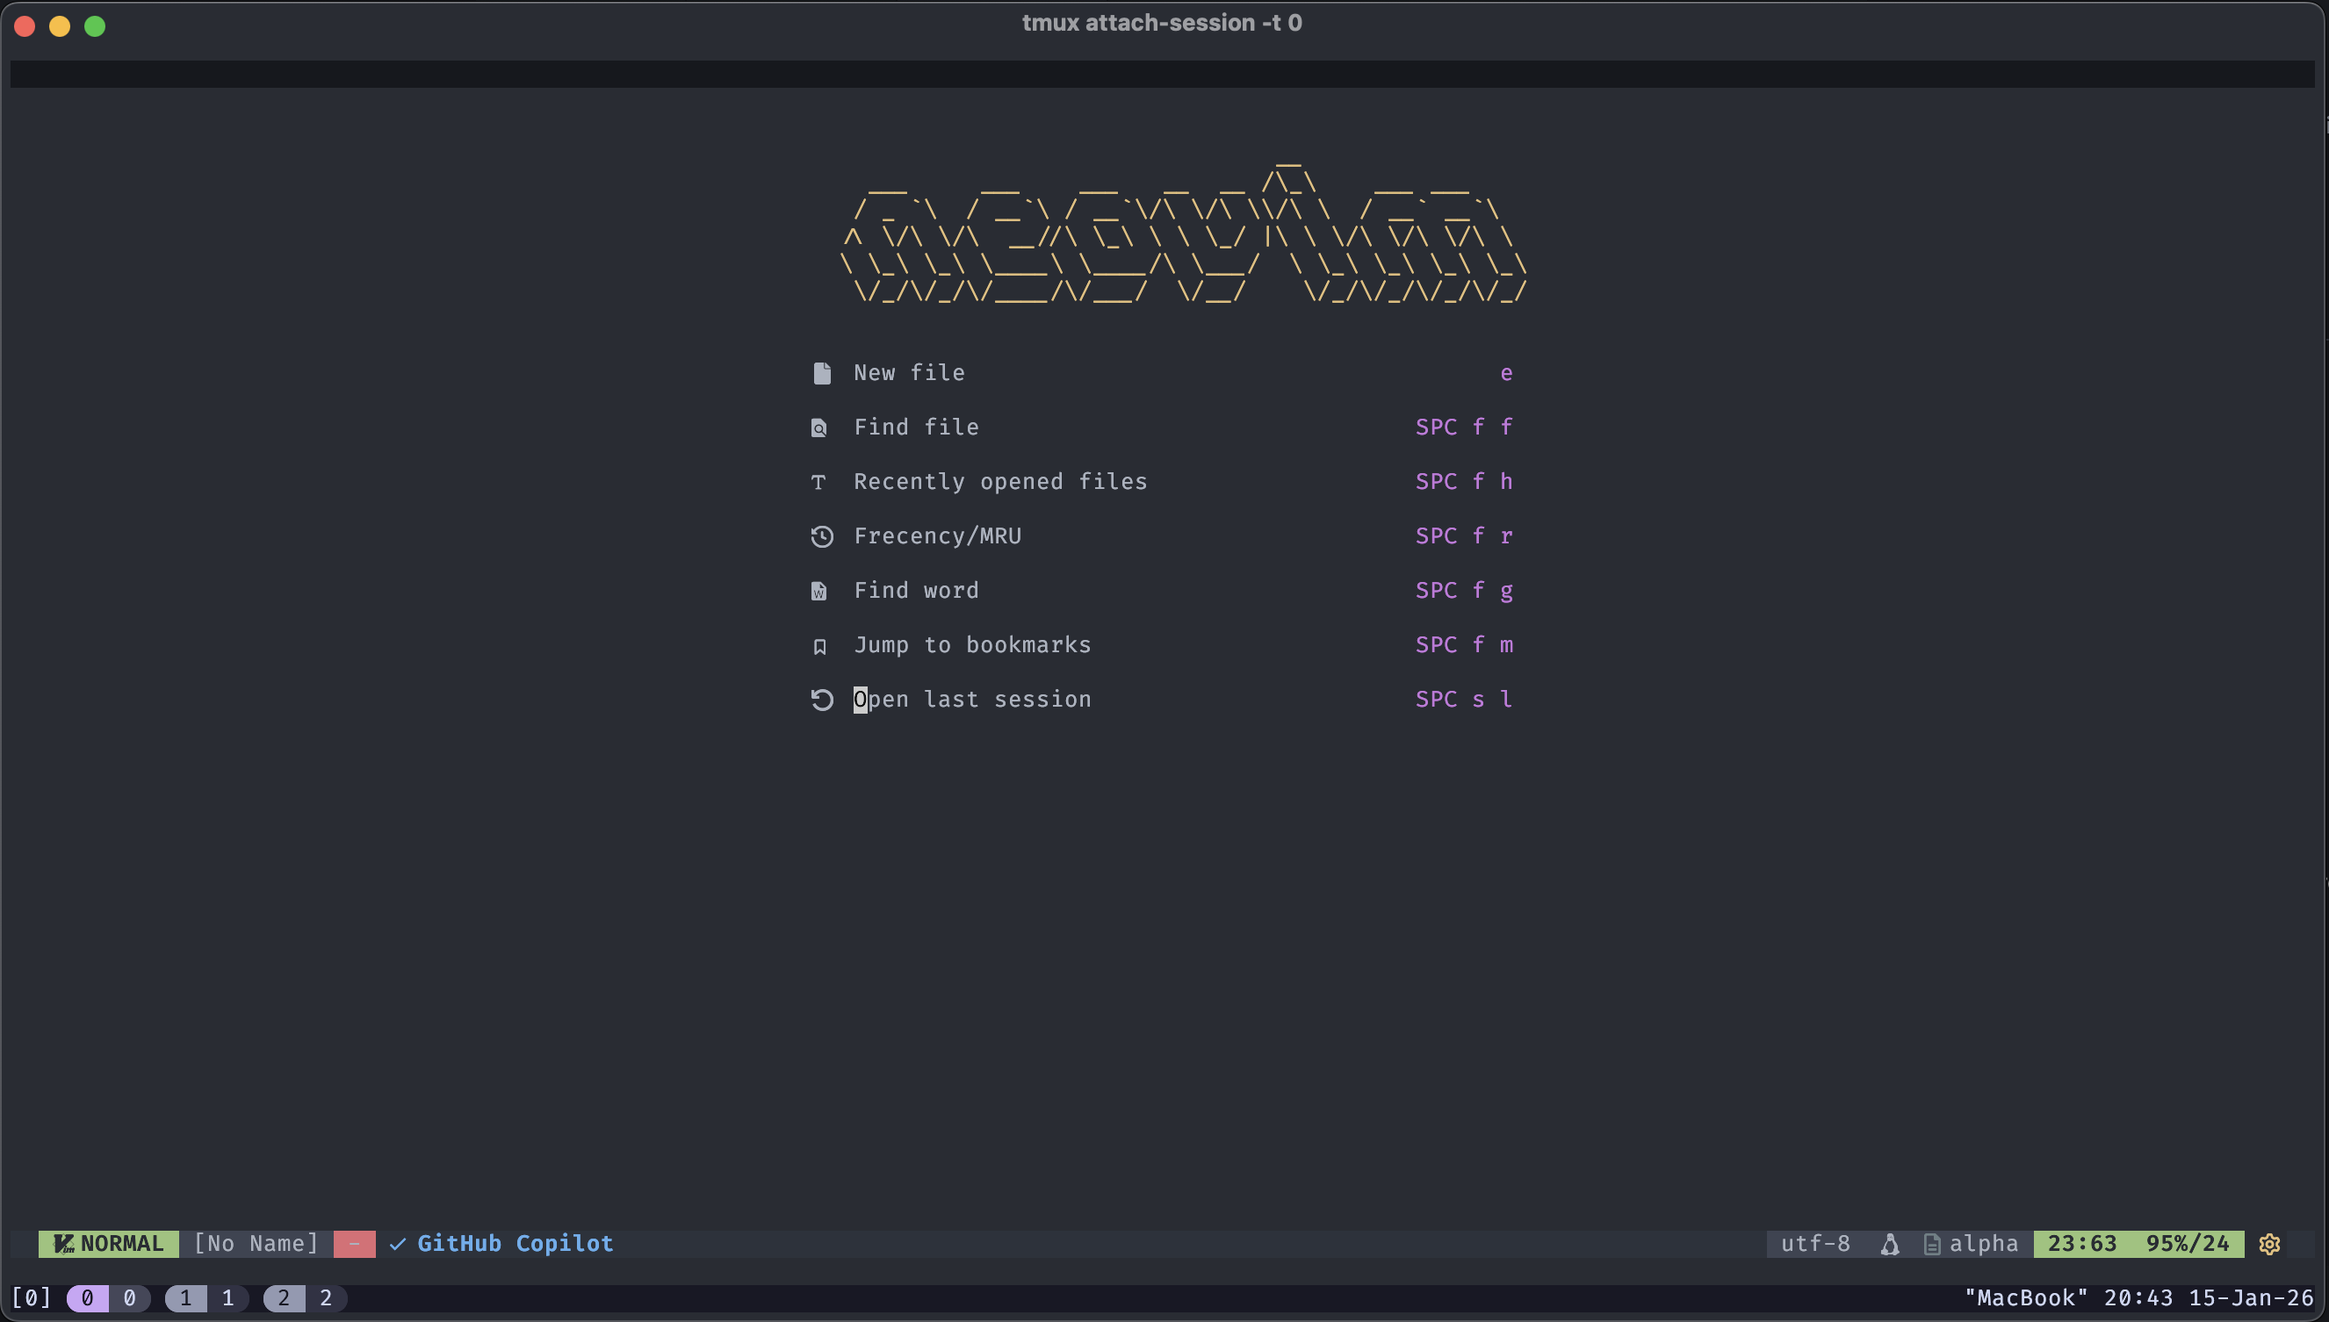
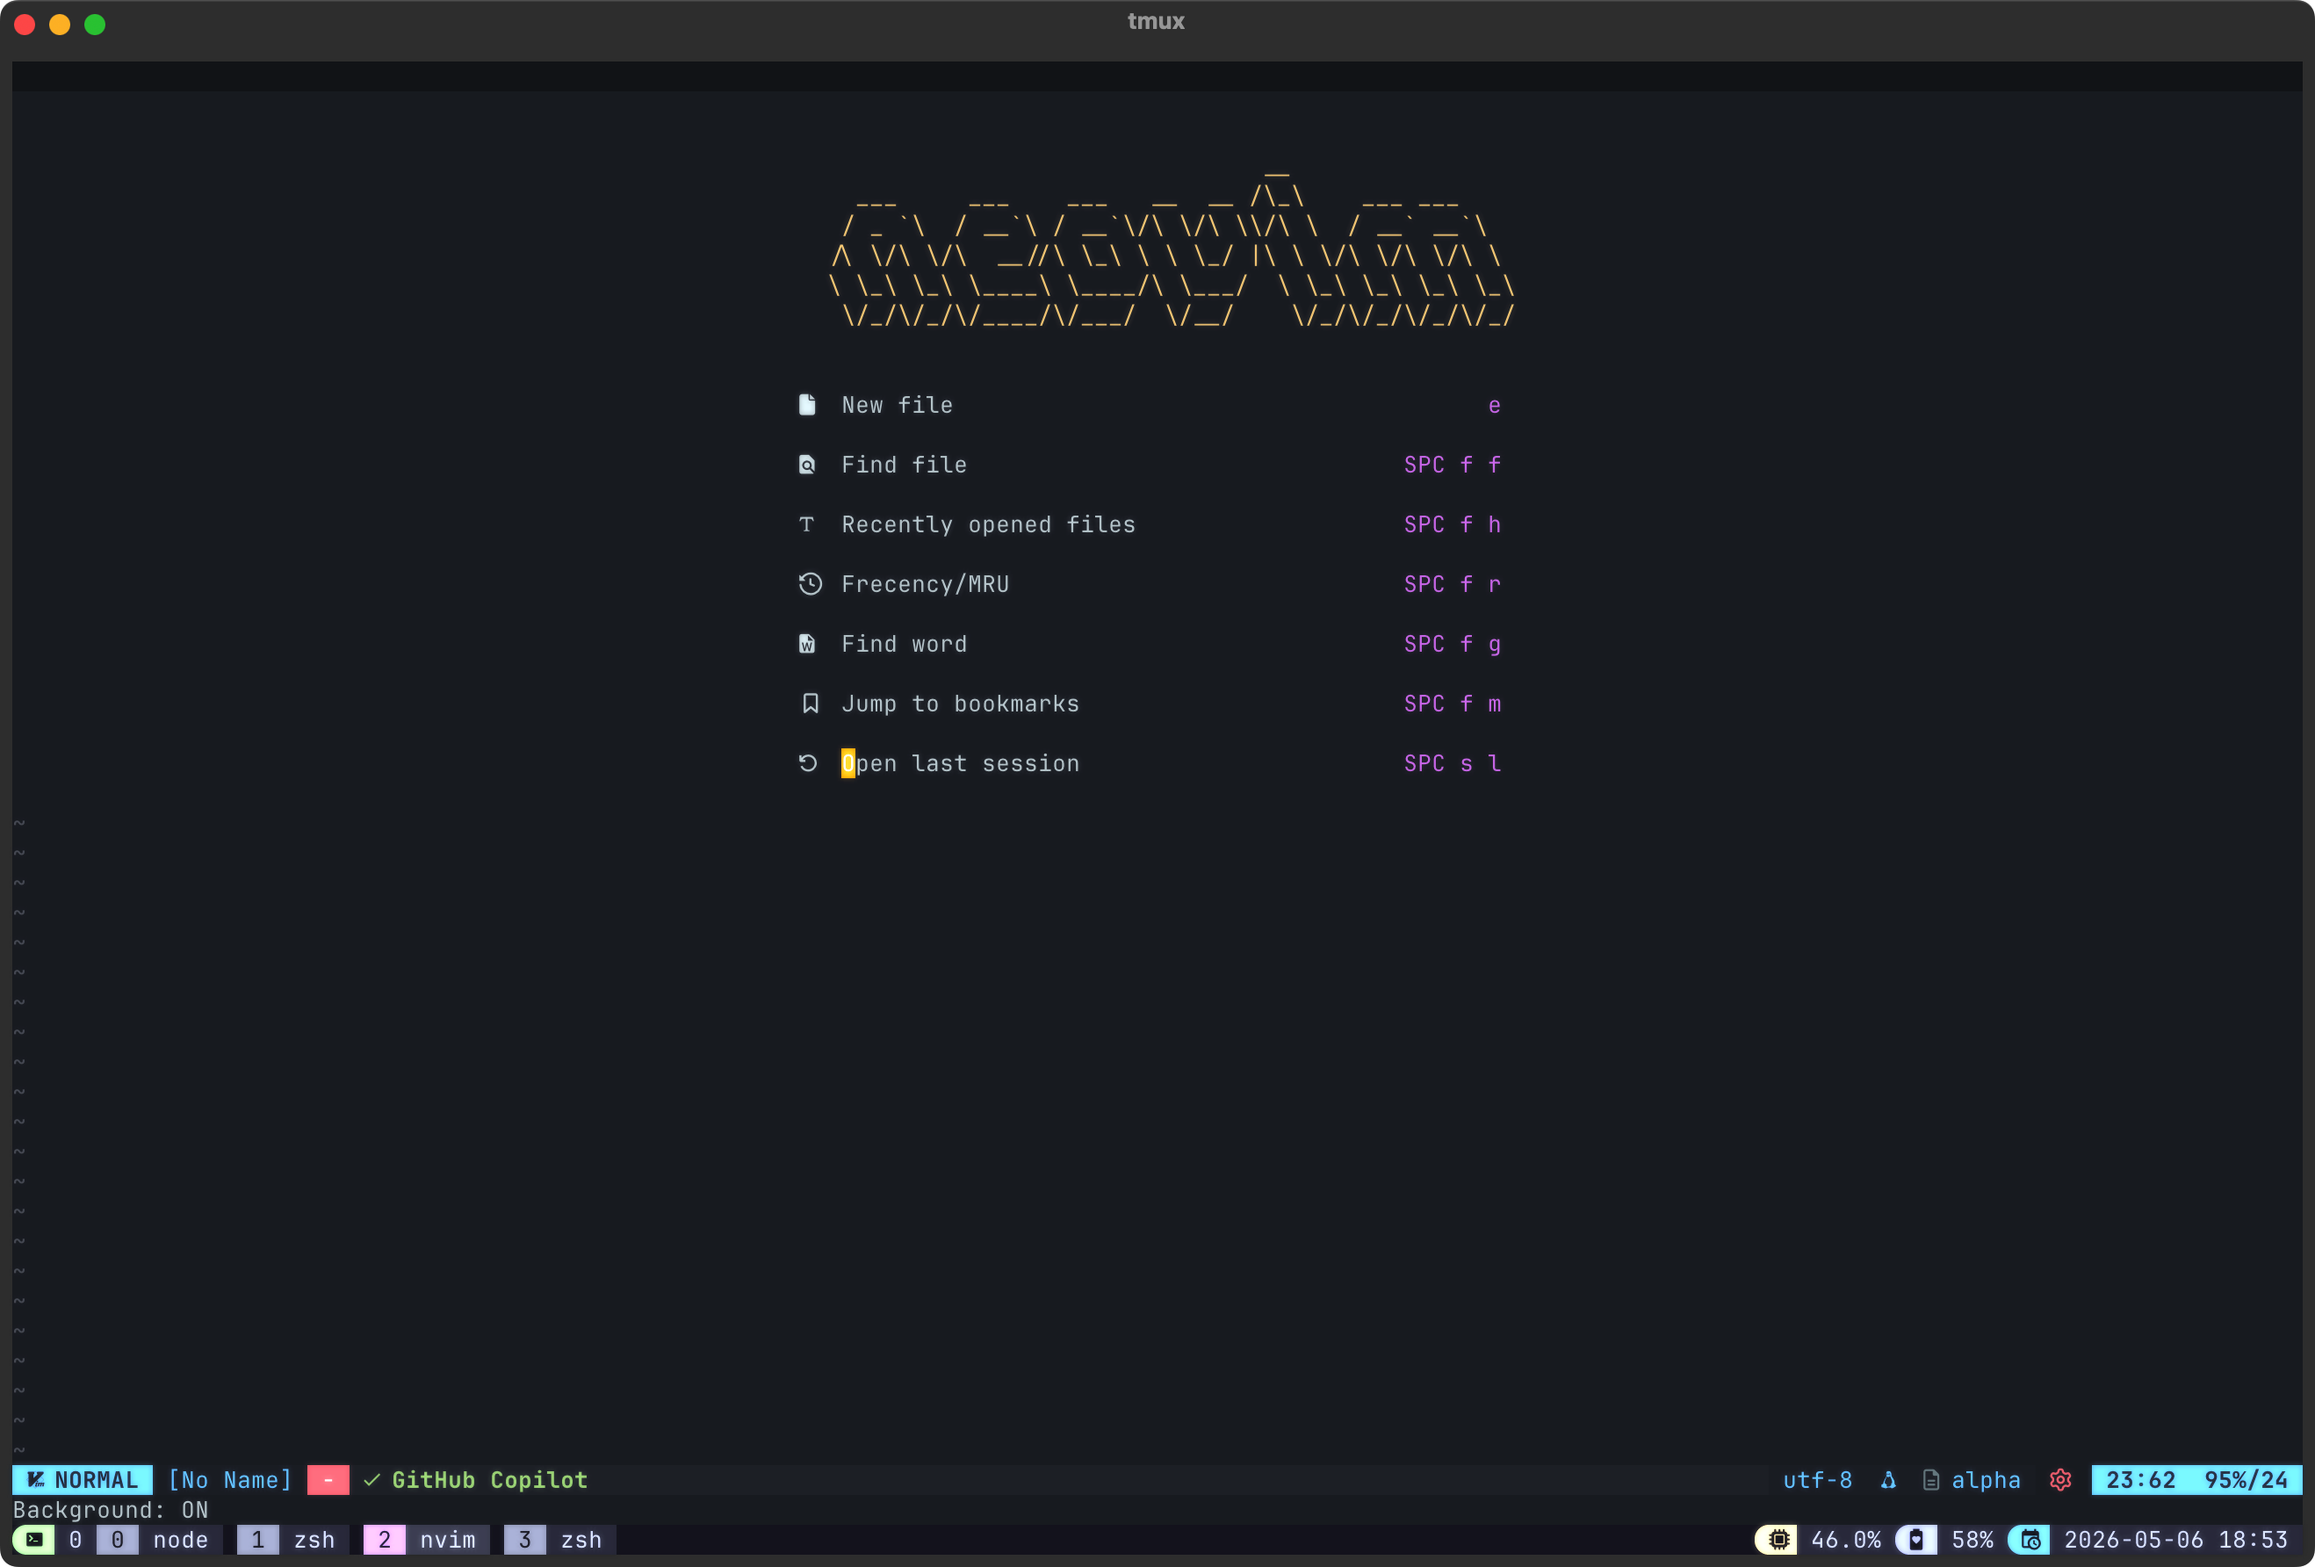
update nvim + nvchad UI

diff --git a/README.md b/README.md
@@ -1,80 +1,267 @@
+# neo-vim
 
-# ScreenShot
-<!-- ## Screenshots
-> [Preview](https://raw.githubusercontent.com/phamhiep2506/dotfiles/master/preview.png) -->
+Custom Neovim configuration for macOS with NVChad-style UI and AI assistance.
 
-![Screenshot from 2022-12-11 19-30-20](./screenshort/1.png)
-![Screenshot from 2022-12-11 19-30-03](./screenshort/2.png)
+![Screenshot](./screenshort/1.png)
 
-
-
-# dotfiles
-
-## Installation Guide
-:warning: Backup your configuration before installation
+## Installation
 
 ```bash
-$ git clone https://github.com/cavaldos/neo-vim
-$ cd neo-vim
-$ mv ~/.config/nvim ~/.config/nvim-backup
-$ cp -r ./nvim ~/.config/nvim
+# Clone repo
+git clone https://github.com/cavaldos/neo-vim ~/.config/nvim
+
+# Backup old config (if exists)
+mv ~/.config/nvim ~/.config/nvim-backup
+
+# Copy new config
+cp -r ./nvim ~/.config/nvim
 ```
 
-## Auto install dependence
+Launch Neovim - Lazy will automatically install all plugins.
 
-- Alpha Dashboard ([alpha-nvim](https://github.com/goolord/alpha-nvim)) - Beautiful dashboard
-- Autopairs ([nvim-autopairs](https://github.com/windwp/nvim-autopairs)) - Auto close brackets, parentheses
-- Comment ([Comment.nvim](https://github.com/numToStr/Comment.nvim)) - Smart code commenting
-- Fuzzy Finder ([fzf.vim](https://github.com/junegunn/fzf.vim)) - Fuzzy file search
-- Git Integration ([gitsigns.nvim](https://github.com/lewis6991/gitsigns.nvim)) - Git decorations
-- Indent Guide ([indent-blankline.nvim](https://github.com/lukas-reineke/indent-blankline.nvim)) - Indent guidelines
-- LSP Config ([nvim-lspconfig](https://github.com/neovim/nvim-lspconfig)) - Language Server Protocol
-- LSP Installer ([mason.nvim](https://github.com/williamboman/mason.nvim)) - Package manager for LSP
-- Mason LSP Config ([mason-lspconfig.nvim](https://github.com/williamboman/mason-lspconfig.nvim)) - Bridge between mason and lspconfig
-- Neoformat ([neoformat](https://github.com/sbdchd/neoformat)) - Code formatting
-- Neotree ([neo-tree.nvim](https://github.com/nvim-neo-tree/neo-tree.nvim)) - File explorer
-- Notifications ([nvim-notify](https://github.com/rcarriga/nvim-notify)) - Fancy notifications
-- Noice ([noice.nvim](https://github.com/folke/noice.nvim)) - UI enhancement
-- Completion ([nvim-cmp](https://github.com/hrsh7th/nvim-cmp)) - Autocompletion plugin
-- Terminal ([toggleterm.nvim](https://github.com/akinsho/toggleterm.nvim)) - Terminal integration
-- Telescope ([telescope.nvim](https://github.com/nvim-telescope/telescope.nvim)) - Fuzzy finder
-- Tailwind Tools ([tailwind-tools.nvim](https://github.com/luckasRanarison/tailwind-tools.nvim)) - Tailwind CSS tools
-- Treesitter ([nvim-treesitter](https://github.com/nvim-treesitter/nvim-treesitter)) - Syntax highlighting
-- Which Key ([which-key.nvim](https://github.com/folke/which-key.nvim)) - Key binding hints
-- Theme ([onedark.nvim](https://github.com/navarasu/onedark.nvim)) - One Dark color scheme
+## Plugins
 
+| Plugin | Description |
+|--------|------------|
+| [alpha-nvim](https://github.com/goolord/alpha-nvim) | Startup dashboard |
+| [nvim-autopairs](https://github.com/windwp/nvim-autopairs) | Auto-close brackets/quotes |
+| [Comment.nvim](https://github.com/numToStr/Comment.nvim) | Smart code commenting |
+| [fzf](https://github.com/junegunn/fzf) + [fzf.vim](https://github.com/junegunn/fzf.vim) | Legacy fuzzy finder |
+| [gitsigns.nvim](https://github.com/lewis6991/gitsigns.nvim) | Git decorations |
+| [nvim-treesitter](https://github.com/nvim-treesitter/nvim-treesitter) | Syntax highlighting |
+| [nvim-lspconfig](https://github.com/neovim/nvim-lspconfig) | LSP config |
+| [mason.nvim](https://github.com/williamboman/mason.nvim) | LSP package manager |
+| [mason-lspconfig.nvim](https://github.com/williamboman/mason-lspconfig.nvim) | Mason + lspconfig bridge |
+| [neoformat](https://github.com/sbdchd/neoformat) | Code formatting |
+| [neo-tree.nvim](https://github.com/nvim-neo-tree/neo-tree.nvim) | File explorer |
+| [nvim-cmp](https://github.com/hrsh7th/nvim-cmp) | Autocompletion |
+| [telescope.nvim](https://github.com/nvim-telescope/telescope.nvim) | Modern fuzzy finder |
+| [which-key.nvim](https://github.com/folke/which-key.nvim) | Keybinding hints |
+| [base46](https://github.com/nvchad/base46) | Themes |
+| [copilot.vim](https://github.com/github/copilot.vim) | GitHub Copilot AI |
+| [aerial.nvim](https://github.com/stevearc/aerial.nvim) | Code outline |
+| [noice.nvim](https://github.com/folke/noice.nvim) | Enhanced cmdline UI |
+| [floaterm](https://github.com/nvzone/floaterm) | Terminal toggle |
 
+---
 
-## Keybinds
+## Keybindings
 
+### Conventions
 
-| Key | Mapping |
-| --- | --- |
-| <kbd>C-N</kbd> | NeoTree toggle |
-| <kbd>D-,</kbd> | Toggle terminal |
-| <kbd>D-f</kbd> | Format code with Neoformat |
-| <kbd>C-J</kbd> | Accept Copilot suggestion |
-| <kbd>C-K</kbd> | Next Copilot suggestion |
-| <kbd>C-H</kbd> | Previous Copilot suggestion |
-| <kbd>leader-ff</kbd> | Telescope find files |
-| <kbd>leader-fg</kbd> | Telescope live grep |
-| <kbd>leader-fb</kbd> | Telescope buffers |
-| <kbd>leader-fc</kbd> | Telescope commands |
-| <kbd>leader-fz</kbd> | FZF files |
-| <kbd>leader-g</kbd> | FZF ripgrep search |
-| <kbd>leader-b</kbd> | FZF buffers |
-| <kbd>leader-h</kbd> | FZF history |
-| <kbd>leader-l</kbd> | FZF buffer lines |
-| <kbd>leader-t</kbd> | FZF tags |
-| <kbd>leader-m</kbd> | FZF marks |
-| <kbd>leader-?</kbd> | Show buffer local keymaps (which-key) |
-| <kbd>C-b</kbd> | Scroll docs up (completion) |
-| <kbd>C-f</kbd> | Scroll docs down (completion) |
-| <kbd>C-Space</kbd> | Complete (cmp) |
-| <kbd>CR</kbd> | Confirm completion |
+| Symbol | Key |
+|--------|-----|
+| `<leader>` | `,` (comma) |
+| `<D>` | Command (⌘) |
+| `<C>` | Control |
+| `<CR>` | Enter/Return |
 
-Note:
-- `leader` is your configured leader key
-- `D` represents Command key (Mac)
-- `C` represents Control key
-- `CR` represents Enter/Return key
+---
+
+### 🚀 General
+
+| Key | Action |
+|-----|--------|
+| `<D-z>` | Undo |
+| `<D-S-Z>` | Redo |
+| `<leader>cm` | Copy messages to clipboard |
+| `<leader>tb` | Toggle background transparency |
+| `<leader>?` | Show buffer local keymaps |
+
+---
+
+### 📁 File Explorer (Neo-tree)
+
+| Key | Action |
+|-----|--------|
+| `<C-n>` | Toggle Neo-tree |
+
+---
+
+### 🔍 Telescope (Fuzzy Finder)
+
+| Key | Action |
+|-----|--------|
+| `<leader>ff` | Find files |
+| `<leader>fg` | Live grep |
+| `<leader>fb` | Buffers |
+| `<leader>fc` | Commands |
+| `<leader>fr` | Recent files |
+| `<leader>fF` | Git files (or regular files if not in git repo) |
+
+#### Git Pickers
+
+| Key | Action |
+|-----|--------|
+| `<leader>gs` | Git status |
+| `<leader>gC` | Git commits |
+| `<leader>gc` | Buffer commits |
+| `<leader>gb` | Git branches |
+| `<leader>gS` | Git stash |
+
+#### LSP Pickers
+
+| Key | Action |
+|-----|--------|
+| `<leader>ls` | Document symbols |
+| `<leader>lS` | Workspace symbols |
+| `<leader>lr` | LSP references |
+| `<leader>li` | LSP implementations |
+| `<leader>ld` | Document diagnostics |
+| `<leader>lD` | Workspace diagnostics |
+
+#### Theme
+
+| Key | Action |
+|-----|--------|
+| `<leader>th` | Choose colorscheme |
+
+---
+
+### 🔍 FZF (Legacy)
+
+| Key | Action |
+|-----|--------|
+| `<leader>fz` | Files |
+| `<leader>g` | Ripgrep |
+| `<leader>b` | Buffers |
+| `<leader>h` | History |
+| `<leader>l` | Buffer lines |
+| `<leader>t` | Tags |
+| `<leader>m` | Marks |
+
+---
+
+### 🤖 Copilot (AI)
+
+| Key | Action |
+|-----|--------|
+| `<Tab>` | Accept suggestion (or insert literal) |
+| `<C-J>` | Accept suggestion |
+| `<C-K>` | Next suggestion |
+| `<C-H>` | Previous suggestion |
+| `<C-L>` | Dismiss suggestion |
+
+---
+
+### 💻 Terminal
+
+| Key | Action |
+|-----|--------|
+| `<F1>` | Toggle terminal |
+| `<C-p>` | Previous terminal buffer |
+| `<C-n>` | Next terminal buffer |
+
+---
+
+### ✏ Completion (nvim-cmp)
+
+| Key | Action |
+|-----|--------|
+| `<C-Space>` | Trigger completion |
+| `<CR>` | Confirm completion |
+| `<C-b>` | Scroll docs up |
+| `<C-f>` | Scroll docs down |
+| `<C-e>` | Abort completion |
+| `<Down>` | Next item |
+| `<Up>` | Previous item |
+
+---
+
+### 🌳 Code Structure (Aerial)
+
+| Key | Action |
+|-----|--------|
+| `<C-a>` | Toggle code outline |
+
+---
+
+### 📝 Formatting
+
+| Key | Action |
+|-----|--------|
+| `<D-f>` | Format code (Neoformat) |
+
+> **Note:** Neoformat auto-formats on save.
+
+---
+
+### 🖱 Mouse
+
+| Action | Action |
+|--------|--------|
+| Click on Sign column | Open Telescope diagnostics |
+
+---
+
+## LSP Servers
+
+Installed via Mason:
+
+- `eslint` (ESLint)
+- `sourcekit` (Swift)
+- `html` (HTML)
+- `clangd` (C/C++)
+- `ts_ls` (TypeScript/JavaScript)
+- `pyright` (Python)
+- `lua_ls` (Lua)
+- `rust_analyzer` (Rust)
+- `cssls` (CSS)
+
+## Customization
+
+### Change Leader Key
+
+Edit `nvim/lua/config/keymaps.lua`:
+
+```lua
+vim.g.mapleader = ","  -- Default is comma
+```
+
+### Change Theme
+
+Edit `nvim/lua/chadrc.lua`:
+
+```lua
+M.base46 = {
+  theme = "onedark",  -- Change to other theme
+}
+```
+
+---
+
+## Requirements
+
+- Neovim ≥ 0.9
+- macOS
+- Git
+- [fd](https://github.com/sharkdp/fd) - Replace `find` for Telescope
+- [rg](https://github.com/BurntSushi/ripgrep) - Ripgrep for search
+- [fzf](https://github.com/junegunn/fzf) - Fuzzy finder
+
+Install via Homebrew:
+
+```bash
+brew install neovim fd ripgrep fzf
+```
+
+---
+
+## Troubleshooting
+
+```bash
+# View logs
+:nvim -l logs
+
+# Sync plugins
+:Lazy sync
+
+# Check health
+:checkhealth
+```
+
+---
+
+## Credits
+
+Based on [NvChad](https://github.com/NvChad/NvChad) and plugins from the community.
